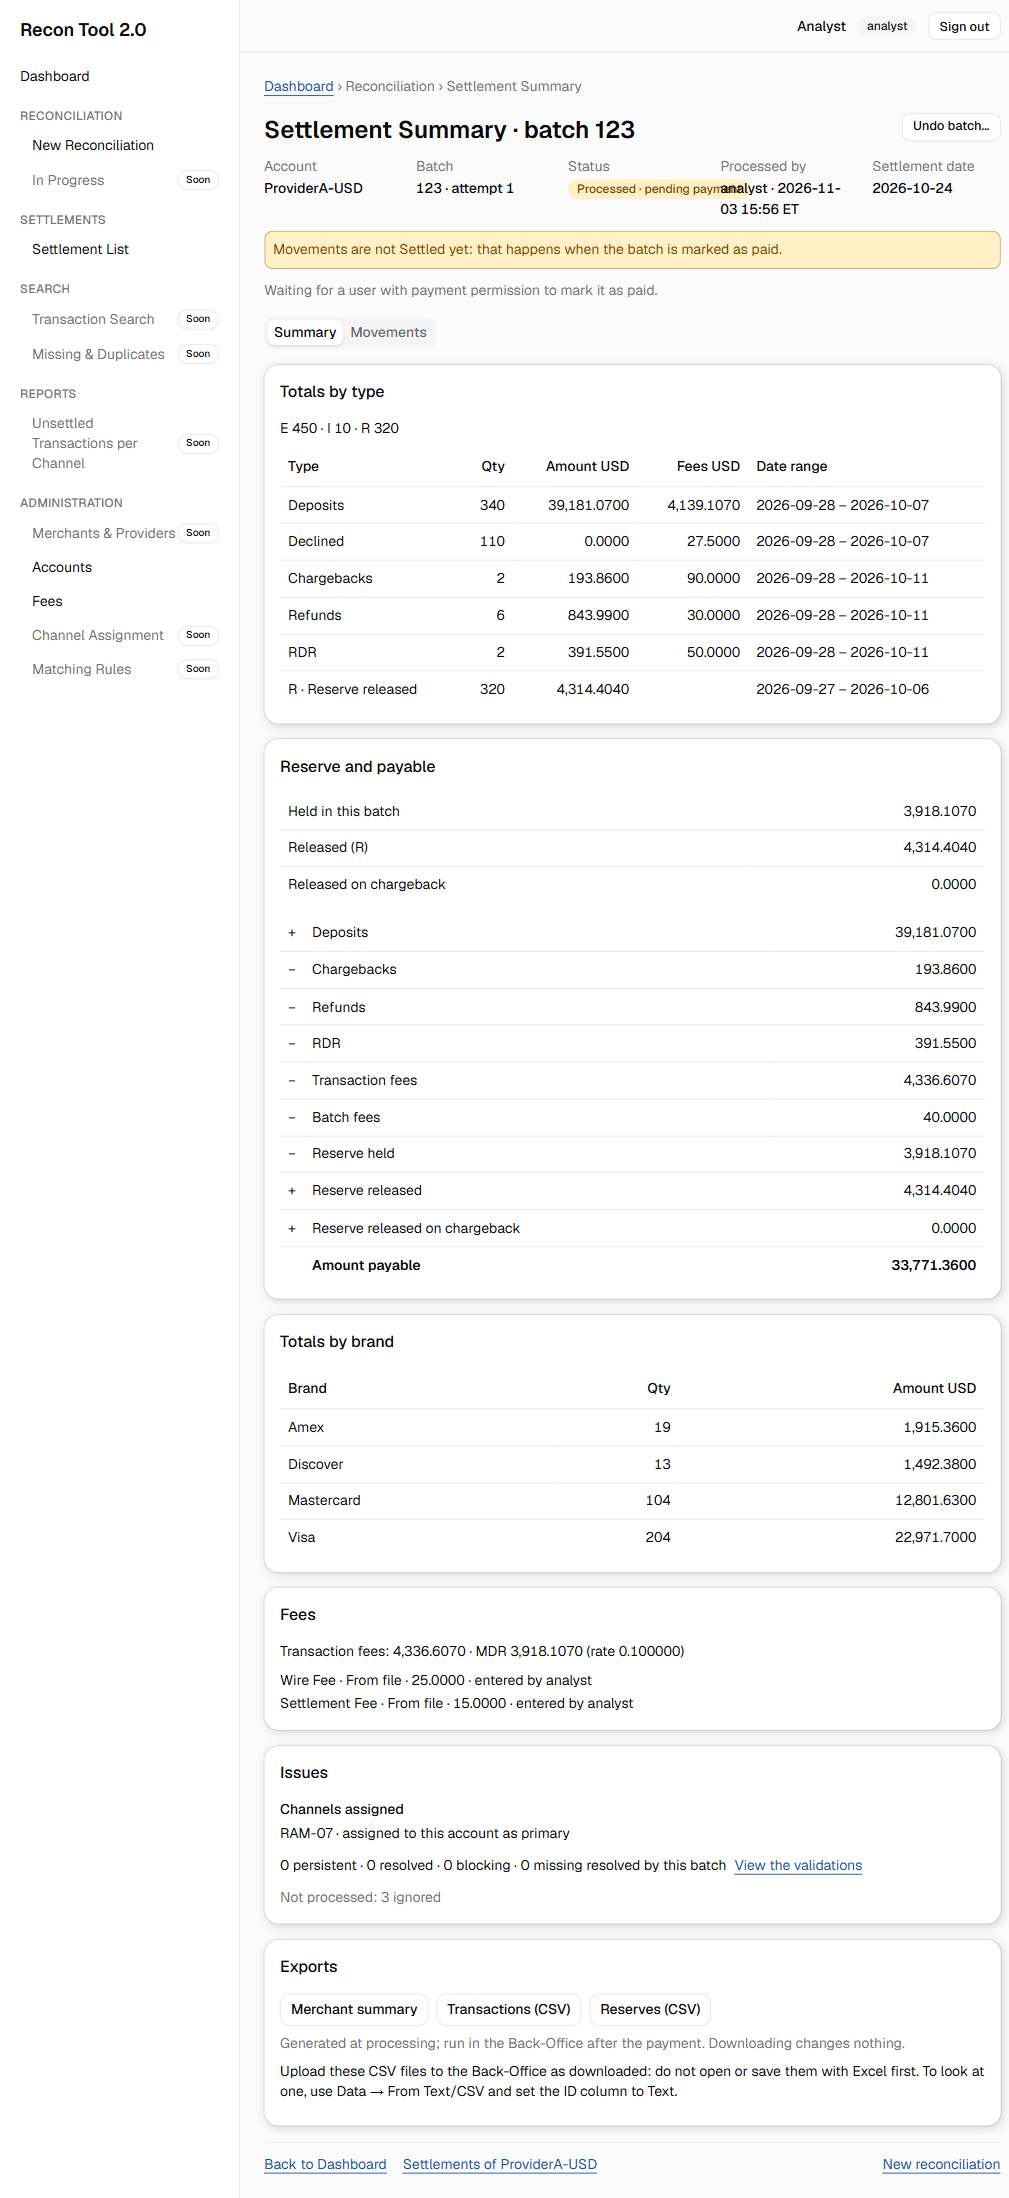
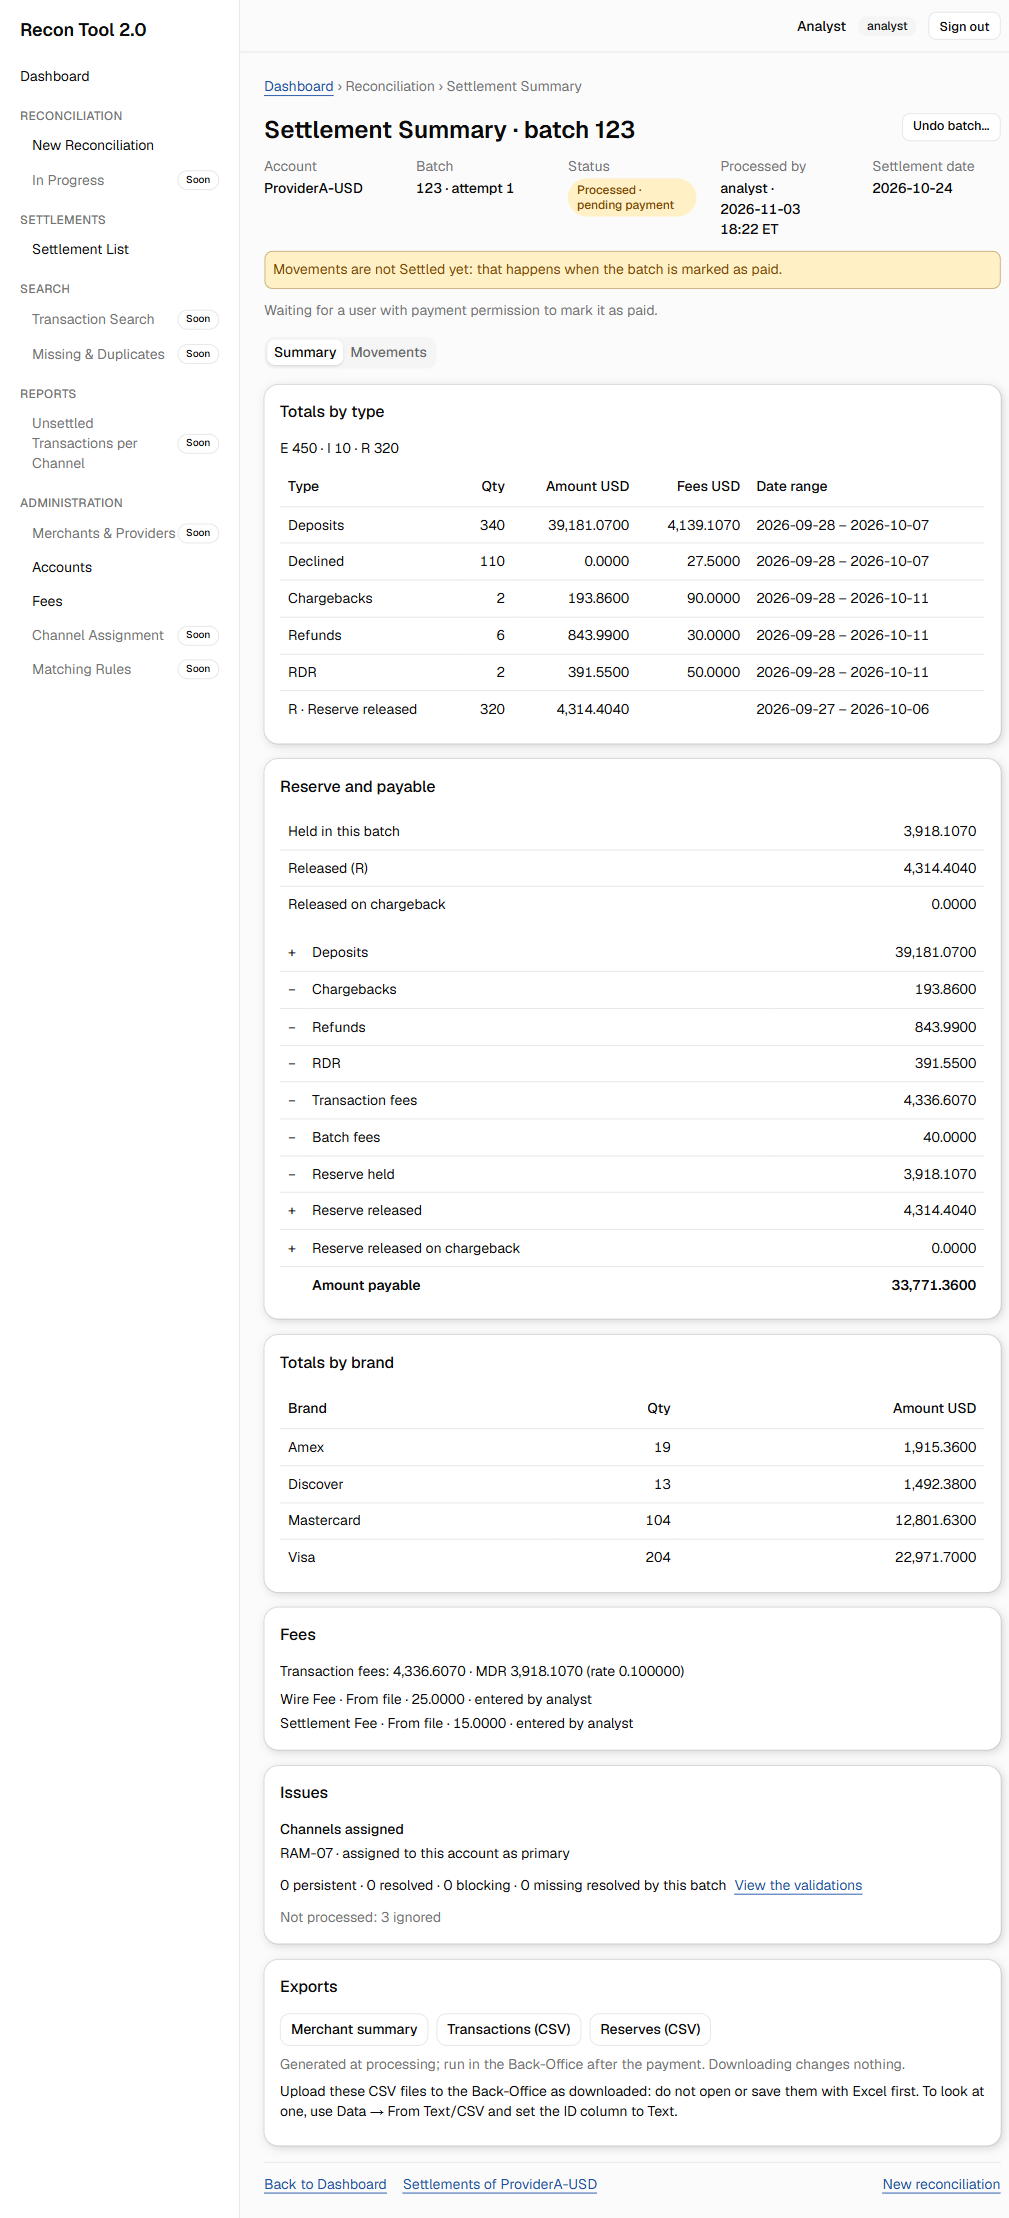
docs(web): captura del Summary esperando el pago, tras los arreglos de la revisión
Solo summary-waiting-analyst, a 1280 y 1024 px, sobre base recién sembrada:
la insignia de estado entera y Processed by sin partir la fecha ni la hora.
El script admite nombres de captura para regenerar solo esas. tasks.md con el
grupo 11 (arreglos de la revisión de la #113).

diff --git a/e2e/screenshots/web-admin-fees.ts b/e2e/screenshots/web-admin-fees.ts
@@ -101,10 +101,17 @@ async function overflows(page: Page): Promise<string[]> {
 const problems: string[] = []
 
 /**
+ * Screens named on the command line (`pnpm screenshots:web-admin-fees summary-waiting-analyst`): only those are
+ * captured and measured, and the other files stay as they are. Without names, every screen.
+ */
+const ONLY = process.argv.slice(2)
+
+/**
  * Captures the screen at 1280 and at 1024 px, measures both, and leaves the page at 1280. A page is captured whole; with
  * a dialog open only the viewport is, as the dialog veils it.
  */
 async function shot(page: Page, name: string, { dialog = false } = {}) {
+  if (ONLY.length > 0 && !ONLY.includes(name)) return
   for (const size of WIDTHS) {
     await page.setViewportSize(size)
     // The layout settles after a resize (the sidebar and the tables reflow).

diff --git a/openspec/changes/web-admin-fees/tasks.md b/openspec/changes/web-admin-fees/tasks.md
@@ -71,8 +71,23 @@ Requiere que `admin-fees` haya terminado sus grupos 4 y 5 (rutas sin `501`).
 - [x] 10.3 Commit: docs(web): capturas de las pantallas de fees
 - [x] 10.4 Lo que encontraron las medidas a 1024 px, arreglado antes de versionar: las celdas de shadcn no parten el texto, así que las dos tablas se salían de su tarjeta. En la de la cuenta parten el tipo y las acciones; en la vista global el merchant y el proveedor pasan bajo la cuenta (decidido con la persona) y solo se parte el tipo. El seed no deja ningún fee en uso (su historial no referencia fees), por eso el script procesa `batch-clean` primero.
 
+## 11. Arreglos de la revisión de la #113
+
+Del `review-diff` en sesión nueva (APROBAR CON CAMBIOS MENORES), cada uno con su test y su rotura comprobada salvo donde se dice.
+
+- [x] 11.1 Cabecera del Summary: la insignia de estado se parte como en Settlement List y ningún elemento de la rejilla crece más que su columna; a 1024 px quedaba bajo **Processed by**. Test de clases como excepción de D15.
+- [x] 11.2 **Processed by**, **Paid by** y **Undone by** en tres piezas enteras (usuario con «·», fecha y hora), con la regla de `settlements-browse` D11: la línea solo se parte entre ellas.
+- [x] 11.3 `percentError` compara la parte entera con 100 como texto, sin `Number`. Refactor sin cambio de comportamiento: casos nuevos como guarda.
+- [x] 11.4 Foco tras escribir: alta, corrección, cambio desde una fecha y cierre aceptados llevan el foco al **History** de ese fee, buscado por su id; si ya no está en la lista, al título de la tabla (solo test unitario: el fake siempre conserva el fee). La validación local pone el foco en el primer campo con error. Spec: requisito nuevo.
+- [x] 11.5 El campo de búsqueda de `/fees` sigue a `q` de la dirección al ir atrás o adelante, sin volver a escribir el texto anterior. Spec: escenario nuevo.
+- [x] 11.6 La API falsa filtra `GET /accounts/{id}/fees` por `asOf` (con `AccountFeesQuery`); comentadas las otras dos simplificaciones (estado contra un día fijo, acción `closed` / `updated`).
+- [x] 11.7 Tests nuevos sobre código ya correcto: `403` y red con el formulario abierto y lo escrito intacto, recarga con `page=2`, historial actualizado tras una corrección, y el reloj de **Close…** a las 22:30 de Nueva York como dice la spec.
+- [x] 11.8 Regenerada solo `summary-waiting-analyst` a 1280 y 1024 px sobre base recién sembrada (`pnpm screenshots:web-admin-fees summary-waiting-analyst`; el script admite nombres de captura). Revisada: insignia entera, nada solapado, fecha y hora sin partir.
+- [x] 11.9 Casilla en #94: los scripts de capturas no detectan elementos que se solapan dentro de una rejilla.
+
 ## Workflow follow-up
 
 - `/opsx:verify web-admin-fees`.
-- Cuando `admin-fees` se mergee: `git rebase --onto feature/entrega-3-MVP origin/feat/admin-fees` y PR con la plantilla hacia `feature/entrega-3-MVP`.
+- Hecho: `admin-fees` (#112) fusionado y rama rebasada con `git rebase --onto origin/feature/entrega-3-MVP origin/feat/admin-fees`; PR #113 hacia `feature/entrega-3-MVP`.
+- Re-revisión de la #113 en sesión nueva tras el grupo 11.
 - `/opsx:archive web-admin-fees` tras el merge.
